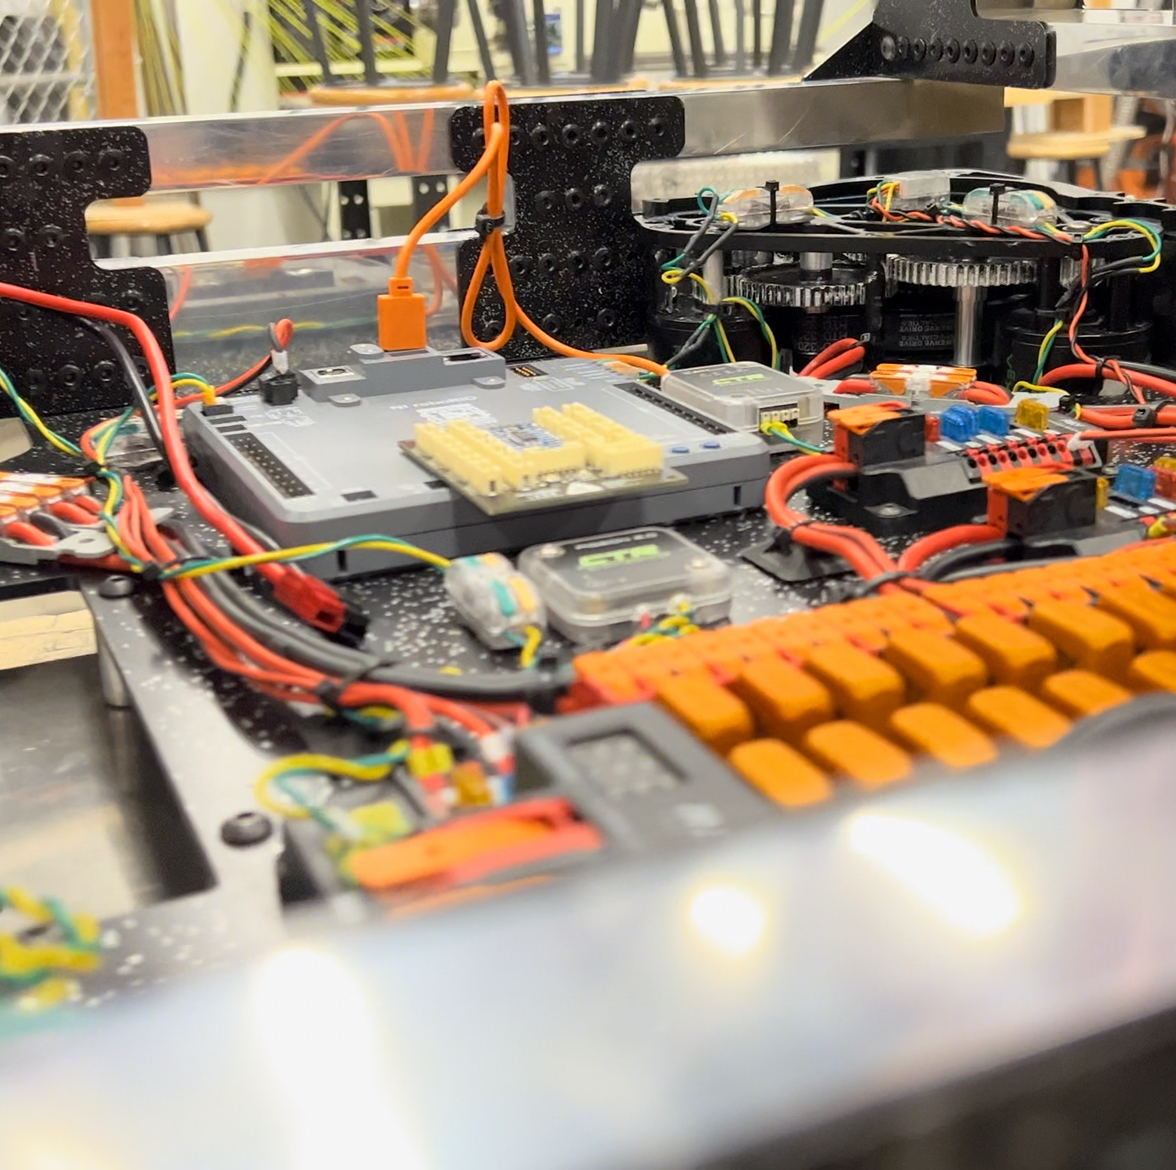
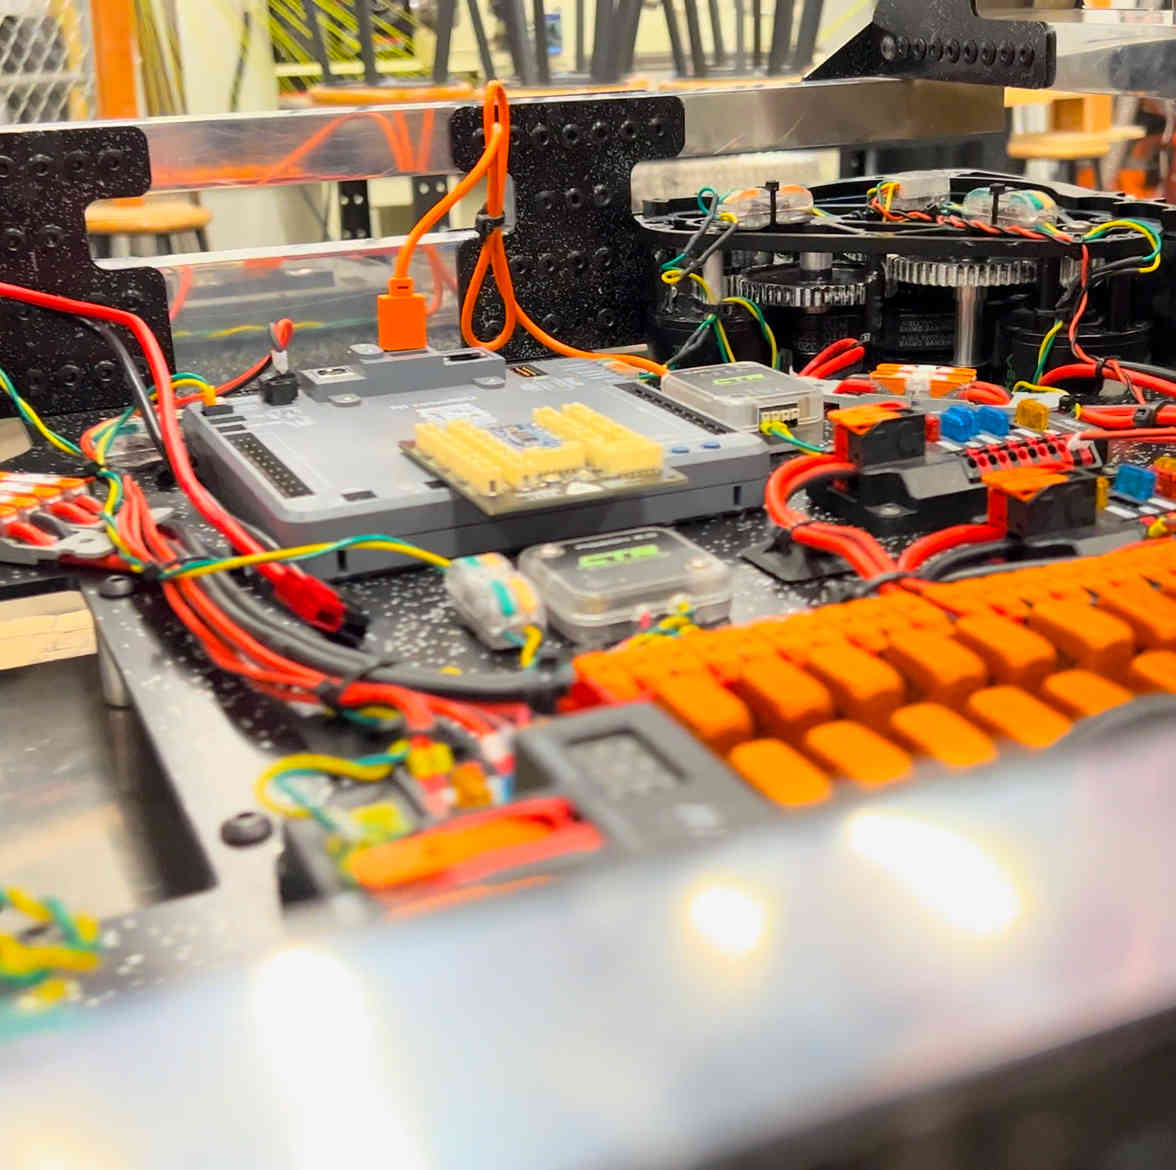
Optimize images a little

diff --git a/angelbotics-website/src/pages/history.js b/angelbotics-website/src/pages/history.js
@@ -1,7 +1,8 @@
-import {useEffect, useState} from "react";
+import {Suspense, useEffect, useState} from "react";
 import {Box, Grid, Paper, Tab, Tabs} from "@mui/material";
-import RobotHistoryTabComputer from "./robotHistoryTabComputer";
 import React from "react";
+
+const RobotHistoryTabComputer = React.lazy(() => import("./robotHistoryTabComputer"));
 
 
 export default function History() {
@@ -28,6 +29,7 @@ export default function History() {
     //
     const [isScreenBig, setScreenBig] = useState(false);
 
+const fallback = <div style={{width:"100%", height:100, textAlign: "center", paddingTop:20}}>Loading...</div>;
 
     useEffect(() => {
 
@@ -50,7 +52,14 @@ export default function History() {
                         <Grid container spacing={1} sx={{width: "95%", m: "2.5%"}}>
 
                             <Grid item xs={12} sm={2} md={2} lg={2} xl={2}>
-                                <Paper sx={{width: '100%', height: "100%", marginBottom: 0, boxShadow: 5, mt:"12.5%", borderRadius:5}}>
+                                <Paper sx={{
+                                    width: '100%',
+                                    height: "100%",
+                                    marginBottom: 0,
+                                    boxShadow: 5,
+                                    mt: "12.5%",
+                                    borderRadius: 5
+                                }}>
                                     <Box
                                         sx={{flexGrow: 1, bgcolor: 'background.paper', display: 'flex', height: "100%"}}
                                     >
@@ -84,7 +93,7 @@ export default function History() {
                                     marginBottom: 0,
                                     alignItems: 'center',
                                     boxShadow: 5,
-                                    borderRadius:5
+                                    borderRadius: 5
                                 }}>
 
                                     <div style={{
@@ -94,10 +103,11 @@ export default function History() {
                                     }}>
 
 
-                                        {data.tabs.map((year, index) =>
-
-                                            <RobotHistoryTabComputer value={value} index={index}/>
-                                        )}
+                                        <Suspense fallback={fallback}>
+                                            {data.tabs.map((year, index) =>
+                                                <RobotHistoryTabComputer value={value} index={index}/>
+                                            )}
+                                        </Suspense>
 
 
                                     </div>
@@ -128,7 +138,7 @@ export default function History() {
                         }}>
 
 
-                            <Paper sx={{width: '100%', height: "auto", marginBottom: 5, borderRadius:5}}>
+                            <Paper sx={{width: '100%', height: "auto", marginBottom: 5, borderRadius: 5}}>
 
                                 <Box
                                     sx={{flexGrow: 1, bgcolor: 'background.paper', display: 'flex', height: 60}}
@@ -156,13 +166,20 @@ export default function History() {
                             </Paper>
 
 
-                            <Paper sx={{width: '95%', height: 'auto', marginLeft: '2.5%', marginBottom: 30, borderRadius:5}}>
+                            <Paper sx={{
+                                width: '95%',
+                                height: 'auto',
+                                marginLeft: '2.5%',
+                                marginBottom: 30,
+                                borderRadius: 5
+                            }}>
 
+                                <Suspense fallback={fallback}>
 
-                                {data.tabs.map((year, index) =>
-
-                                    <RobotHistoryTabComputer value={value} index={index}/>
-                                )}
+                                    {data.tabs.map((year, index) =>
+                                        <RobotHistoryTabComputer value={value} index={index}/>
+                                    )}
+                                </Suspense>
 
 
                             </Paper>

diff --git a/angelbotics-website/src/pages/home.js b/angelbotics-website/src/pages/home.js
@@ -100,7 +100,7 @@ export default function Home() {
                                         {entry.imagePath &&
                                             <Grid item xs={12} sm={12} md={12} lg={12} xl={12}
                                                   key={entry.name + " picture"} sx={{justifyContent: "center"}}>
-                                                <img src={entry.imagePath} alt={entry.name} width="100%"
+                                                <img src={entry.imagePath} alt={entry.name} width="100%" loading="lazy"
                                                      height="auto" style={{borderRadius:15, marginLeft: entry.gridSpaces <= 3 ? "-4%" : "0%"}}/>
                                             </Grid>
                                         }
@@ -187,7 +187,7 @@ export default function Home() {
                                                   key={entry.name + " picture"} sx={{justifyContent: "center"}}>
                                                 <Box sx={{ml:-3}}>
                                                 <img src={entry.imagePath} alt={entry.name} width="95%" style={{marginLeft:"2.5%", borderRadius:15}}
-                                                     height="auto"/>
+                                                     height="auto" loading="lazy"/>
                                                 </Box>
                                             </Grid>
                                         }

diff --git a/angelbotics-website/src/App.js b/angelbotics-website/src/App.js
@@ -58,7 +58,7 @@ function App() {
 
                         <Toolbar>
                             <Button sx={{cursor: 'default'}} component={Link} to={'/'}>
-                                <img src='Logo.svg' alt="Angelbotics Logo" height="100" width="100"/>
+                                <img src='logo.svg' alt="Angelbotics Logo" height="100" width="100"/>
                             </Button>
 
 
@@ -139,6 +139,7 @@ function App() {
 
                         <Toolbar>
                         <Button size={"small"} variant={"contained"} sx={{cursor: 'pointer', width: 10, m: 2, marginRight:"auto"}}
+                                aria-label="Open Navigation"
                                 onClick={() => {
                                     setDrawerState(!drawerState);
                                     setCurrentPage(window.location.pathname);

diff --git a/angelbotics-website/src/pages/firstRobotics.js b/angelbotics-website/src/pages/firstRobotics.js
@@ -1,5 +1,5 @@
 import {useEffect, useRef, useState} from "react";
-import {Card, Grid, Paper, Typography} from "@mui/material";
+import { Grid, Paper, Typography} from "@mui/material";
 import YouTube from "react-youtube";
 
 export default function FirstRobotics() {
@@ -164,7 +164,7 @@ export default function FirstRobotics() {
                                 <a rel="noreferrer noopener" target="_blank"
                                    href={data.FTC.website}>
                                     <img src={data.FTC.logo} alt="FTC Logo" width="60%"
-                                         height="auto" style={{margin: 20}}/>
+                                         height="auto" style={{margin: 20, width:"60"}}/>
                                 </a>
 
                                 <Typography variant="h6"
